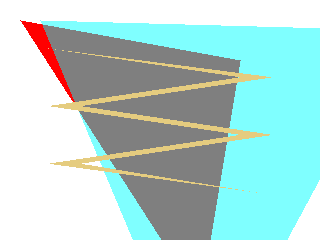
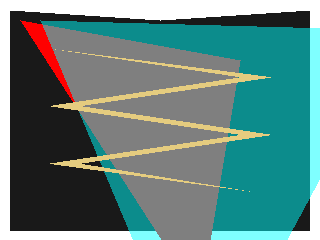
Implement polygon draw
you can now draw simple polygon
NOTE, If self-collition, it's UB.

diff --git a/ImageGenerator/src/image.cpp b/ImageGenerator/src/image.cpp
@@ -410,19 +410,68 @@ void Image::draw_triangle(double p0x, double p0y, double p1x, double p1y, double
 		}
 	}
 }
-void Image::draw_polygon(int n, double *px, double *py, double rr, double gg, double bb, double aa) {
+void Image::draw_polygon(int n, const double *px, const double *py, double rr, double gg, double bb, double aa) {
 	if(n < 3) return;
 	double signedArea = 0.0;
-	for(int i = 0; i < n; i++) {
-		signedArea += ccw(0, 0, px[i], py[i], px[(i + 1)%n], py[(i + 1)%n]);
+	for(int k = 0; k < n; k++) {
+		signedArea += ccw(0, 0, px[k], py[k], px[(k + 1)%n], py[(k + 1)%n]);
 	}
 	double area = std::abs(signedArea);
 	// NOTE: our xy-coordinate is not normal. clockwise will have positive area
 	bool is_cw = (signedArea > E);
-	// TODO
+
+	std::vector<std::vector<double>> vf(h, std::vector<double>(w, 0.0));
+
+	for(int k = 0; k < n; k++) {
+		double sx = px[k];
+		double ex = px[(k+1)%n];
+		double sy = py[k];
+		double ey = py[(k+1)%n];
+		double sign = is_cw ? -1.0 : 1.0;
+		if(sx > ex){
+			std::swap(sx, ex);
+			std::swap(sy, ey);
+			sign = -sign;
+		}
+		// add vf area between x:[sx ex) and y:[0 py]
+		for(int j = (int)sx - 1; j <= (int)ex + 1; j++) {
+			if(j < sx) continue;
+			if(j < 0) continue;
+			if(j >= ex) continue;
+			if(j >= w) continue;
+			double rate = (j - sx) / (ex - sx);
+			double py = sy + rate * (ey - sy);
+			for(int i = 0; i < h; i++){
+				if(i > py)break;
+				vf[i][j] += sign;
+			}
+		}
+	}
+
+	for(int i = 0; i < h; i++) {
+		for(int j = 0; j < w; j++) {
+			if(vf[i][j] > 1.0 - E) {
+				set_pixel(i, j, rr, gg, bb, aa);
+			}
+		}
+	}
 }
-void Image::draw_polygon(int n, std::vector<double> px, std::vector<double> py, double rr, double gg, double bb, double aa) {
+void Image::draw_polygon(int n, const std::vector<double> &px, const std::vector<double> &py, double rr, double gg, double bb, double aa) {
+	if(n > std::min(px.size(), py.size())) n = std::min(px.size(), py.size());
 	draw_polygon(n, px.data(), py.data(), rr, gg, bb, aa);
+}
+void Image::draw_polygon(int n, const double *pxy, double rr, double gg, double bb, double aa) {
+	std::vector<double> px(n);
+	std::vector<double> py(n);
+	for(int i=0; i<n; i++){
+		px[i] = pxy[i+i+0];
+		py[i] = pxy[i+i+1];
+	}
+	draw_polygon(n, px, py, rr, gg, bb, aa);
+}
+void Image::draw_polygon(int n, const std::vector<double> &pxy, double rr, double gg, double bb, double aa) {
+	if(n > pxy.size() / 2) n = pxy.size() / 2;
+	draw_polygon(n, pxy.data(), rr, gg, bb, aa);
 }
 void Image::draw_image(double cx, double cy, double px, double py, const Image& img) {
 	if (cx > px)std::swap(cx, px);

diff --git a/ImageGenerator/include/image.h b/ImageGenerator/include/image.h
@@ -53,8 +53,10 @@ namespace IMAGE {
 		void draw_line(double cx, double cy, double px, double py, double radius, double rr, double gg, double bb, double aa = 1.0);
 		void draw_line_gradient(double cx, double cy, double px, double py, double radius, double rr, double gg, double bb, double rrr, double ggg, double bbb);
 		void draw_triangle(double p0x, double p0y, double p1x, double p1y, double p2x, double p2y, double rr, double gg, double bb, double aa = 1.0);
-		void draw_polygon(int n, double *px, double *py, double rr, double gg, double bb, double aa = 1.0);
-		void draw_polygon(int n, std::vector<double> px, std::vector<double> py, double rr, double gg, double bb, double aa = 1.0);
+		void draw_polygon(int n, const double *px, const double *py, double rr, double gg, double bb, double aa = 1.0);
+		void draw_polygon(int n, const std::vector<double> &px, const std::vector<double> &py, double rr, double gg, double bb, double aa = 1.0);
+		void draw_polygon(int n, const double *pxy, double rr, double gg, double bb, double aa = 1.0);
+		void draw_polygon(int n, const std::vector<double> &pxy, double rr, double gg, double bb, double aa = 1.0);
 		void draw_image(double cx, double cy, double px, double py, const Image& img);
 
 		AlphaBehaviorType mAlphaBehavior;

diff --git a/sampleImages/src/main.cpp b/sampleImages/src/main.cpp
@@ -316,6 +316,16 @@ void generate_sample9() {
 	int height = 240;
 	IMAGE::Image img(width, height);
 
+	const double vertex[5][2] = {
+		{10, 10},
+		{10, 230},
+		{310, 230},
+		{310, 10},
+		{160, 20},
+	};
+
+	img.draw_polygon(5, &vertex[0][0], 0.1, 0.1, 0.1, 1.0);
+
 	img.draw_triangle(20, 20, 200, 300, 240, 60, 1.0, 0.0, 0.0);
 	img.draw_triangle(40, 20, 400, 30, 200, 400, 0.0, 1.0, 1.0, 0.5);
 
@@ -338,14 +348,7 @@ void generate_sample9() {
 		}
 	}
 
-	//img.draw_polygon(2*n, px, py, 0.9, 0.8, 0.5);
-	//draw_polygon is not work yet. just draw it with draw_triangle
-	img.draw_triangle(px[0], py[0], px[1], py[1], px[2*n-1], py[2*n-1], 0.9, 0.8, 0.5);
-	img.draw_triangle(px[n], py[n], px[n+1], py[n+1], px[n-1], py[n-1], 0.9, 0.8, 0.5);
-	for(k = 1; k < n - 1; k++) {
-		img.draw_triangle(px[k], py[k], px[k+1], py[k+1], px[2*n-k], py[2*n-k], 0.9, 0.8, 0.5);
-		img.draw_triangle(px[k+1], py[k+1], px[2*n-k], py[2*n-k],px[2*n-k-1], py[2*n-k-1], 0.9, 0.8, 0.5);
-	}
+	img.draw_polygon(2*n, px, py, 0.9, 0.8, 0.5);
 
 	img.Save(filename);
 }

diff --git a/README.md b/README.md
@@ -8,6 +8,8 @@
 * 원 그리기 (O(r^2))
 * 다이아몬드 그리기 (O(r^2))
 * 직선 그리기 (O(이미지 전체))
+* 삼각형 그리기 (O(이미지 전체))
+* 단순다각형 그리기 (O(n*이미지 전체))
 * 다른 이미지 그리기 (O(max(w1h1, w2h2)))
 
 예제 이미지
